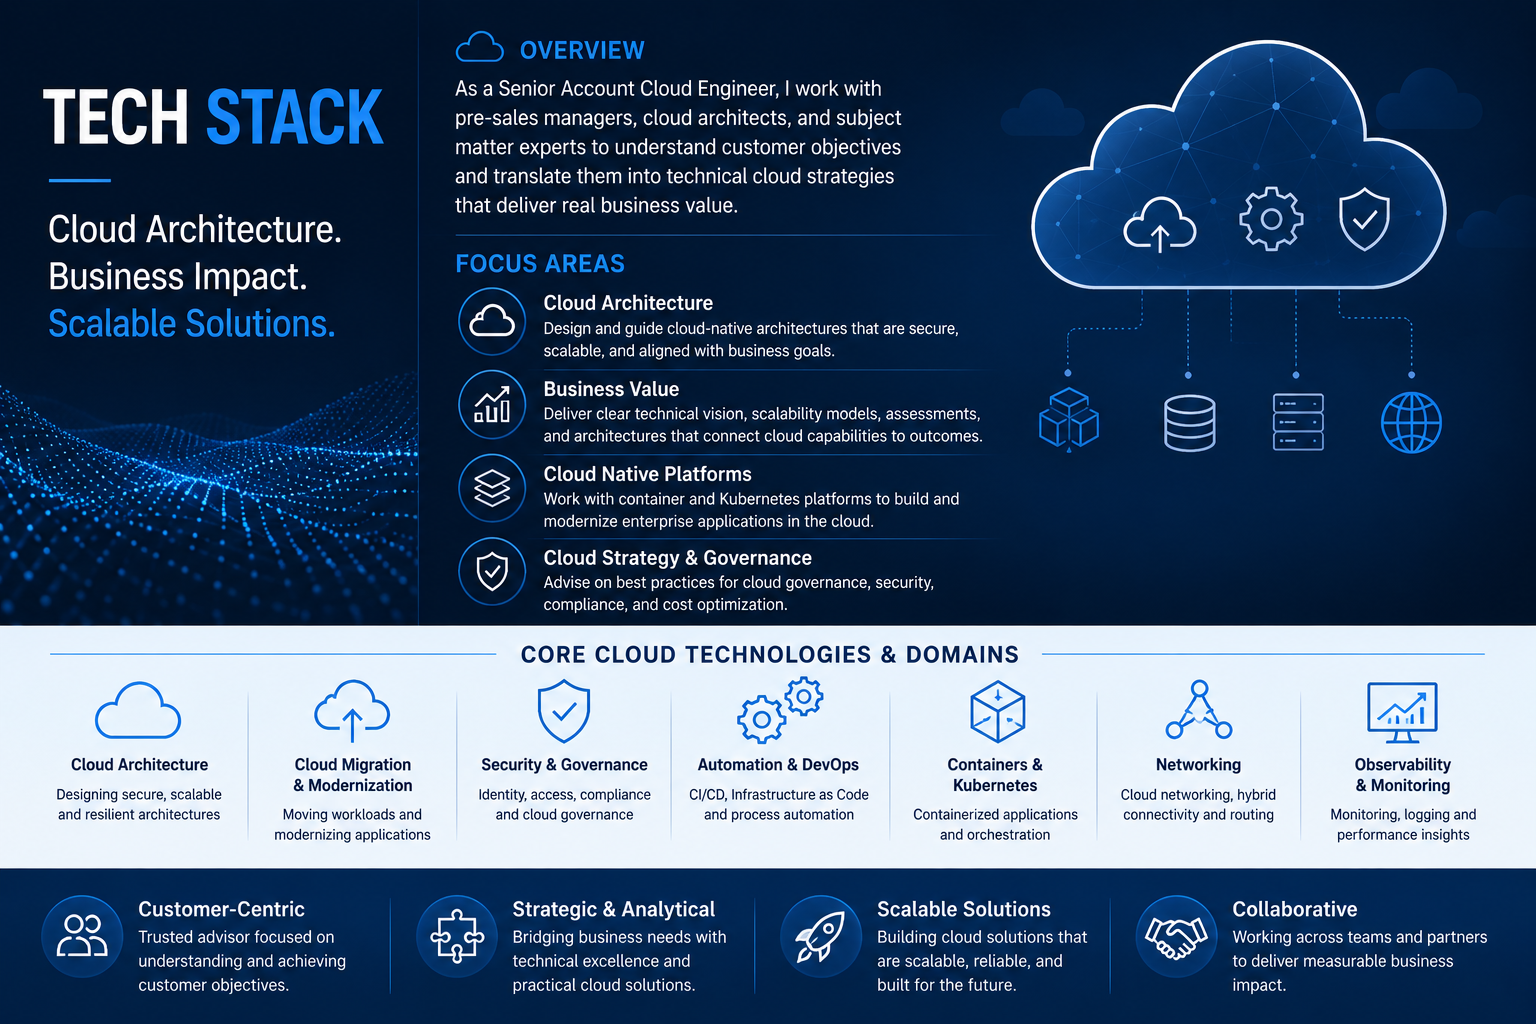
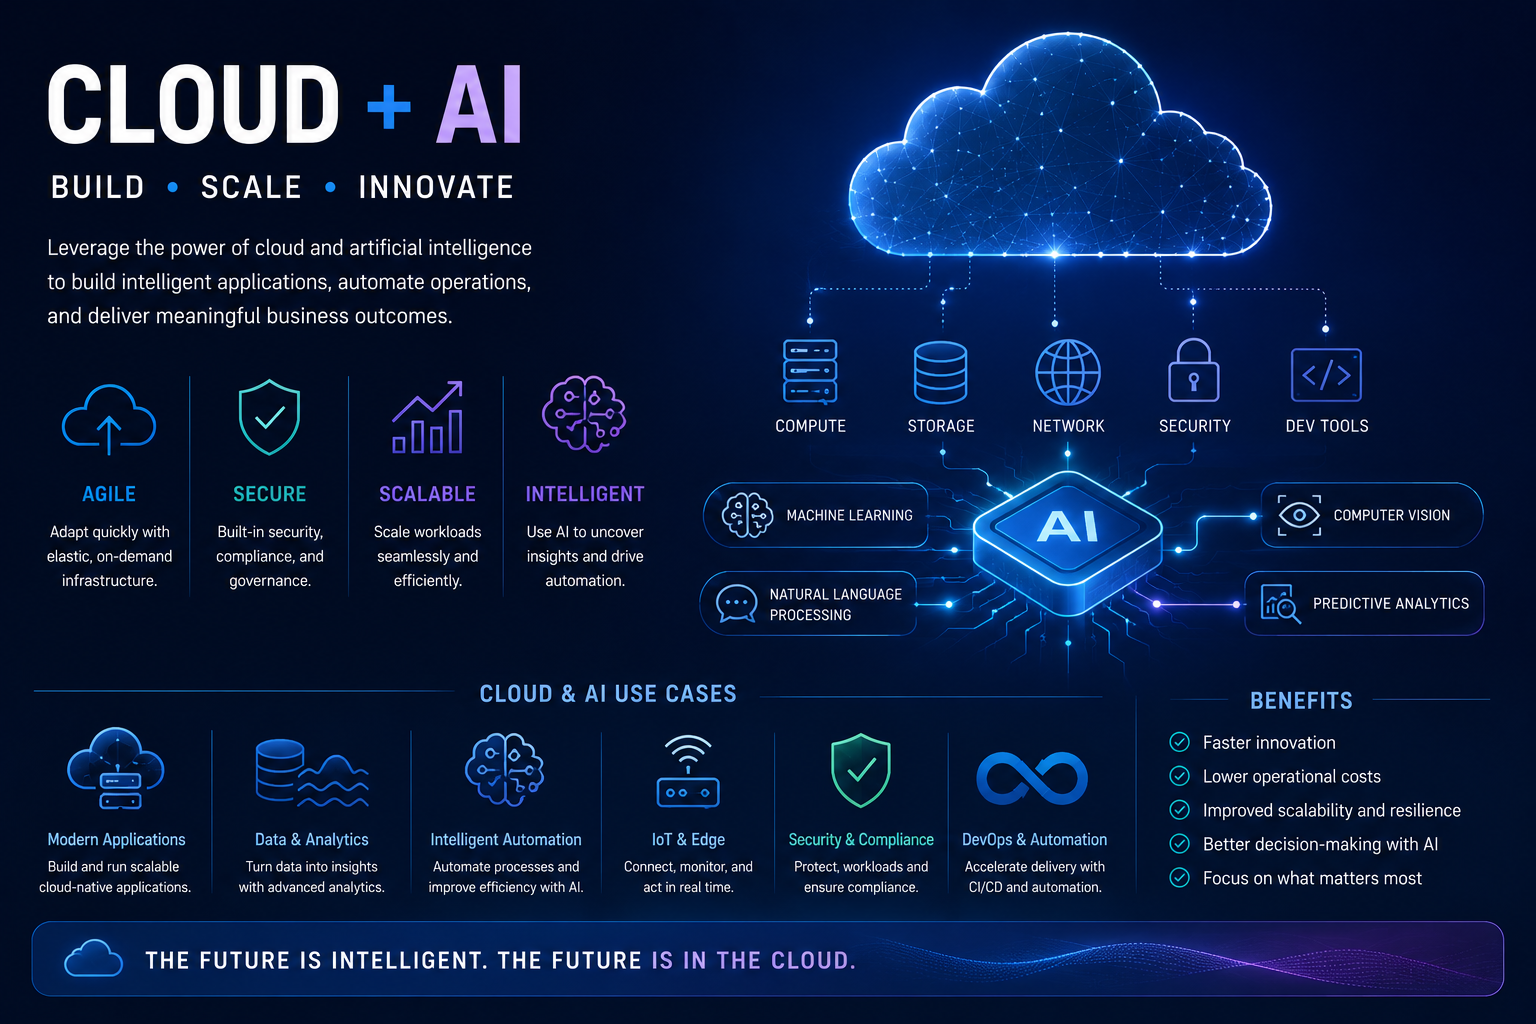
updae hero section

diff --git a/src/app/home.module.scss b/src/app/home.module.scss
@@ -17,10 +17,117 @@
 }
 
 .heroPanel {
+  position: relative;
   display: grid;
-  align-content: center;
+  align-content: stretch;
   min-height: 420px;
+  isolation: isolate;
+  overflow: hidden;
+  border-color: transparent;
+  background:
+    linear-gradient(145deg, color-mix(in srgb, var(--page-background) 96%, transparent), color-mix(in srgb, var(--neutral-background-weak) 70%, transparent))
+      padding-box,
+    linear-gradient(145deg, color-mix(in srgb, var(--brand-background-strong) 52%, transparent), color-mix(in srgb, var(--accent-background-strong) 34%, transparent) 48%, color-mix(in srgb, var(--success-background-strong) 24%, transparent))
+      border-box;
+  box-shadow:
+    inset 0 1px 0 color-mix(in srgb, #fff 12%, transparent),
+    0 1.25rem 3.5rem color-mix(in srgb, var(--neutral-background-strong) 13%, transparent);
   padding: clamp(1.25rem, 4vw, 3rem);
+}
+
+.heroPanel::before,
+.heroPanel::after {
+  position: absolute;
+  inset: 0;
+  z-index: -1;
+  pointer-events: none;
+  content: "";
+}
+
+.heroPanel::before {
+  inset: 0 0 0 auto;
+  width: min(46%, 26rem);
+  height: 100%;
+  clip-path: polygon(18% 0, 100% 0, 100% 100%, 0 100%);
+  background:
+    repeating-linear-gradient(
+      90deg,
+      color-mix(in srgb, var(--neutral-on-background-strong) 10%, transparent) 0 1px,
+      transparent 1px 2.25rem
+    ),
+    linear-gradient(145deg, color-mix(in srgb, var(--brand-background-medium) 24%, transparent), color-mix(in srgb, var(--accent-background-medium) 16%, transparent));
+  opacity: 0.76;
+}
+
+.heroPanel::after {
+  inset: auto auto 1.5rem 1.5rem;
+  width: 10rem;
+  height: 0.25rem;
+  border-radius: 999px;
+  background: var(--portfolio-hover-gradient);
+  opacity: 0.9;
+}
+
+.heroLayout {
+  display: grid;
+  grid-template-columns: minmax(0, 1fr) minmax(9rem, 0.34fr);
+  gap: clamp(1.5rem, 4vw, 3rem);
+  align-items: end;
+  min-height: 100%;
+}
+
+.heroContent {
+  max-width: 46rem;
+  align-self: center;
+}
+
+.heroEyebrow {
+  width: fit-content;
+  padding-bottom: 0.65rem;
+  border-bottom: 1px solid var(--brand-alpha-medium);
+  color: var(--brand-on-background-strong);
+  font-size: 0.8rem;
+  font-weight: 650;
+  letter-spacing: 0;
+  line-height: 1;
+  text-transform: uppercase;
+}
+
+.heroActions {
+  padding-top: 0.25rem;
+}
+
+.heroRail {
+  display: grid;
+  gap: 0.75rem;
+  align-self: stretch;
+  align-content: end;
+  min-height: 18rem;
+}
+
+.heroRail span {
+  display: grid;
+  min-height: 4.25rem;
+  align-items: center;
+  padding-inline: 1rem;
+  border: 1px solid var(--neutral-alpha-weak);
+  border-radius: 0.5rem;
+  background: color-mix(in srgb, var(--page-background) 56%, transparent);
+  backdrop-filter: blur(12px);
+  color: var(--neutral-on-background-strong);
+  font-size: 0.78rem;
+  font-weight: 650;
+  letter-spacing: 0;
+  line-height: 1;
+  text-transform: uppercase;
+}
+
+.heroRail span:nth-child(2) {
+  margin-left: 1rem;
+}
+
+.heroRail span:nth-child(3) {
+  margin-left: 2rem;
 }
 
 .sideGrid {
@@ -109,6 +216,30 @@
 
   .heroPanel {
     min-height: auto;
+    padding: 1.5rem;
+  }
+
+  .heroLayout {
+    grid-template-columns: 1fr;
+  }
+
+  .heroRail {
+    grid-template-columns: repeat(3, minmax(0, 1fr));
+    min-height: 0;
+  }
+
+  .heroRail span,
+  .heroRail span:nth-child(2),
+  .heroRail span:nth-child(3) {
+    min-height: 3.25rem;
+    margin-left: 0;
+  }
+
+  .heroPanel::before {
+    width: 100%;
+    height: 46%;
+    clip-path: polygon(0 30%, 100% 6%, 100% 100%, 0 100%);
+    opacity: 0.45;
   }
 }
 
@@ -119,6 +250,10 @@
   }
 
   .metricGrid {
+    grid-template-columns: 1fr;
+  }
+
+  .heroRail {
     grid-template-columns: 1fr;
   }
 

diff --git a/src/app/HomeClient.tsx b/src/app/HomeClient.tsx
@@ -3,7 +3,7 @@
 import { useLanguage } from "@/components/LanguageProvider";
 import { LanguageSwitcher } from "@/components/LanguageSwitcher";
 import type { PortfolioAbout, PortfolioHome, PortfolioPerson } from "@/types/portfolio-data";
-import { Avatar, Badge, Button, Column, Heading, Row, Text } from "@once-ui-system/core";
+import { Avatar, Button, Column, Heading, Row, Text } from "@once-ui-system/core";
 import type { ReactNode } from "react";
 import styles from "./home.module.scss";
 
@@ -73,45 +73,38 @@ export function HomeClient({
     <>
       <div className={styles.homeGrid}>
         <section className={styles.heroPanel}>
-          <Column fillWidth gap="24">
-            {home.featured.display && (
-              <Badge
-                background="brand-alpha-weak"
-                paddingX="12"
-                paddingY="4"
-                onBackground="neutral-strong"
-                textVariant="label-default-s"
-                arrow={false}
-                href={home.featured.href}
-              >
-                <Row paddingY="2" gap="12" vertical="center">
-                  <strong>{t("homeFeaturedLabel")}</strong>
-                </Row>
-              </Badge>
-            )}
-            <Heading wrap="balance" variant="display-strong-l">
-              {t("homeHeadline")}
-            </Heading>
-            <Text wrap="balance" onBackground="neutral-weak" variant="heading-default-xl">
-              {t("homeSubline")}
-            </Text>
-            <Row gap="12" wrap>
-              <Button href="/work" variant="primary" size="m" weight="default" arrowIcon>
-                {t("viewProjects")}
-              </Button>
-              <Button
-                id="about"
-                data-border="rounded"
-                href={about.path}
-                variant="secondary"
-                size="m"
-                weight="default"
-                arrowIcon
-              >
-                {t("aboutMiguel")}
-              </Button>
-            </Row>
-          </Column>
+          <div className={styles.heroLayout}>
+            <Column className={styles.heroContent} fillWidth gap="24">
+              <div className={styles.heroEyebrow}>{person.role}</div>
+              <Heading wrap="balance" variant="display-strong-l">
+                {t("homeHeadline")}
+              </Heading>
+              <Text wrap="balance" onBackground="neutral-weak" variant="heading-default-xl">
+                {t("homeSubline")}
+              </Text>
+              <Row className={styles.heroActions} gap="12" wrap>
+                <Button href="/work" variant="primary" size="m" weight="default" arrowIcon>
+                  {t("viewProjects")}
+                </Button>
+                <Button
+                  id="about"
+                  data-border="rounded"
+                  href={about.path}
+                  variant="secondary"
+                  size="m"
+                  weight="default"
+                  arrowIcon
+                >
+                  {t("aboutMiguel")}
+                </Button>
+              </Row>
+            </Column>
+            <div className={styles.heroRail} aria-hidden="true">
+              <span>Cloud</span>
+              <span>Security</span>
+              <span>Data</span>
+            </div>
+          </div>
         </section>
 
         <aside className={styles.sideGrid} aria-label="Portfolio summary">
